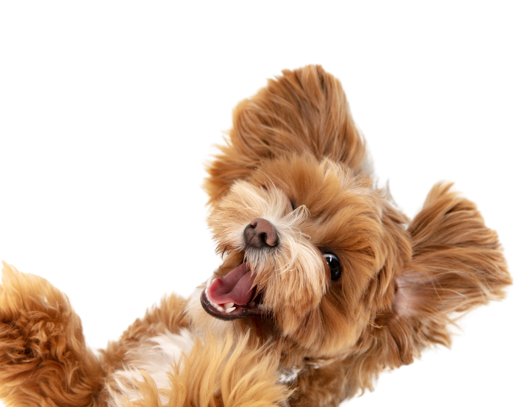
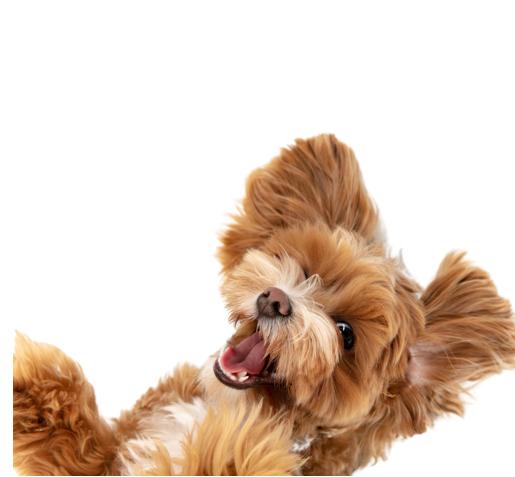
landing page

diff --git a/client/src/components/LandingPage/LandingPage.css b/client/src/components/LandingPage/LandingPage.css
@@ -19,6 +19,8 @@
     display: block;
     height: 450px;
     object-fit: cover;
+    border-radius: 400px;
+    background: rgb(80, 145, 230);
     width: auto;
     animation: moverAbajo 1s ease-in;
 }
@@ -27,11 +29,11 @@
     color: white;
 }
 .textos h1{
-    font-size: 70px;
+    font-size: 80px;
     animation: moverDerecha 1s ease-in;
 }
 .textos h2{
-    font-size: 23px;
+    font-size: 25px;
     animation: moverIzquierda 1s ease-in;
 }
 .textos a{
@@ -98,5 +100,75 @@
     100%{
         opacity: 1;
         transform: translate(0);
+    }
+}
+
+@media screen and (max-width:1100px) {
+    .img_landing{
+        height: 400px;
+    }
+    .textos h1{
+        font-size: 70px;
+    }
+}
+@media screen and (max-width:900px) {
+    .img_landing{
+        height: 300px;
+    }
+    .textos h1{
+        font-size: 60px;
+    }
+    .textos h2{
+        font-size: 20px;
+    }
+}
+@media screen and (max-width:800px) {
+    .img_landing{
+        height: 280px;
+    }
+    .textos h1{
+        font-size: 55px;
+    }
+    .textos h2{
+        font-size: 15px;
+    }
+}
+@media screen and (max-width:700px) {
+    .textos h1{
+        font-size: 45px;
+    }
+}
+@media screen and (max-width:600px) {
+    .container_landing{
+        width: 100%;
+        flex-wrap: wrap-reverse;
+        justify-content: center;
+    }
+    .img_landing{
+        height: 300px;
+    }
+    .textos{
+        width: 95%;
+        text-align: center;
+    }
+    .textos h1{
+        font-size: 55px;
+    }
+    .textos h2{
+        font-size: 20px;
+    }
+}
+@media screen and (max-width:440px) {
+    .img_landing{
+        height: 160px;
+    }
+    .textos h1{
+        font-size: 35px;
+    }
+    .textos h2{
+        font-size: 15px;
+    }
+    .textos a{
+        font-size: 12px;
     }
 }

diff --git a/client/src/components/Paginado/Paginado.css b/client/src/components/Paginado/Paginado.css
@@ -1,11 +1,11 @@
 .paginado{
     background: white;
     position: sticky;
-    display: flex;
+    /* display: flex;
     align-items: center;
-    justify-content: center;
-    bottom: 0px;
-    animation: moverArriba 1s ease-in;
+    justify-content: center; */
+    top: 70px;
+    animation: moverAbajo 1s ease-in;
 }
 .buton_row_pag{
     display: flex;

diff --git a/client/src/components/Breeds/Breeds.jsx b/client/src/components/Breeds/Breeds.jsx
@@ -25,6 +25,7 @@ const Breeds = () => {
   return (
     <div>
       <Nav />
+      <Paginado />
       <h1>Breeds</h1>
       <div className="cards">
         {breeds.map((breed) => {
@@ -40,7 +41,6 @@ const Breeds = () => {
       <div className="pet_breeds">
         <img src={pet} />
       </div>
-      <Paginado />
     </div>
   );
 };

diff --git a/client/src/components/Nav/Nav.css b/client/src/components/Nav/Nav.css
@@ -15,6 +15,7 @@
 .Navbar{
     font-family: 'Poppins', sans-serif;
     position: sticky;
+    animation: moverAbajo 1s ease-in;
     top: 0px;
 }
 
